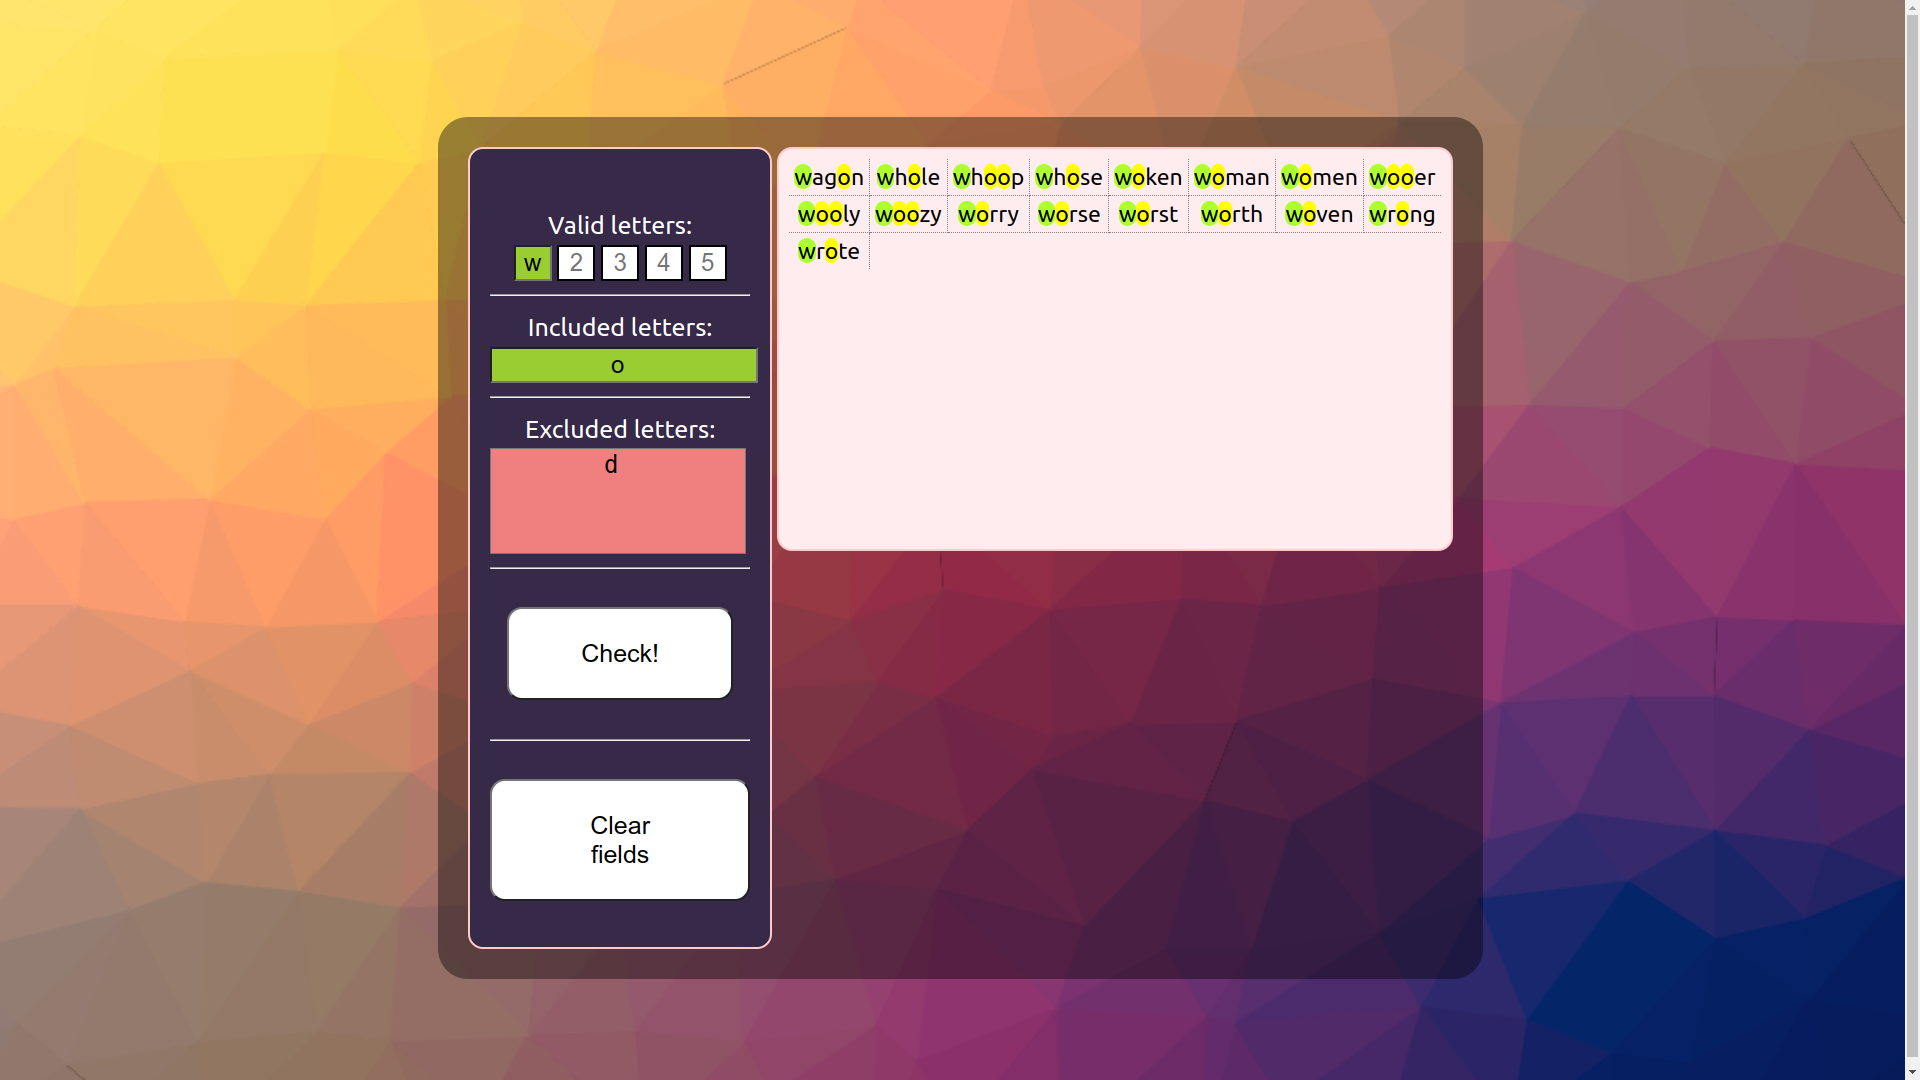
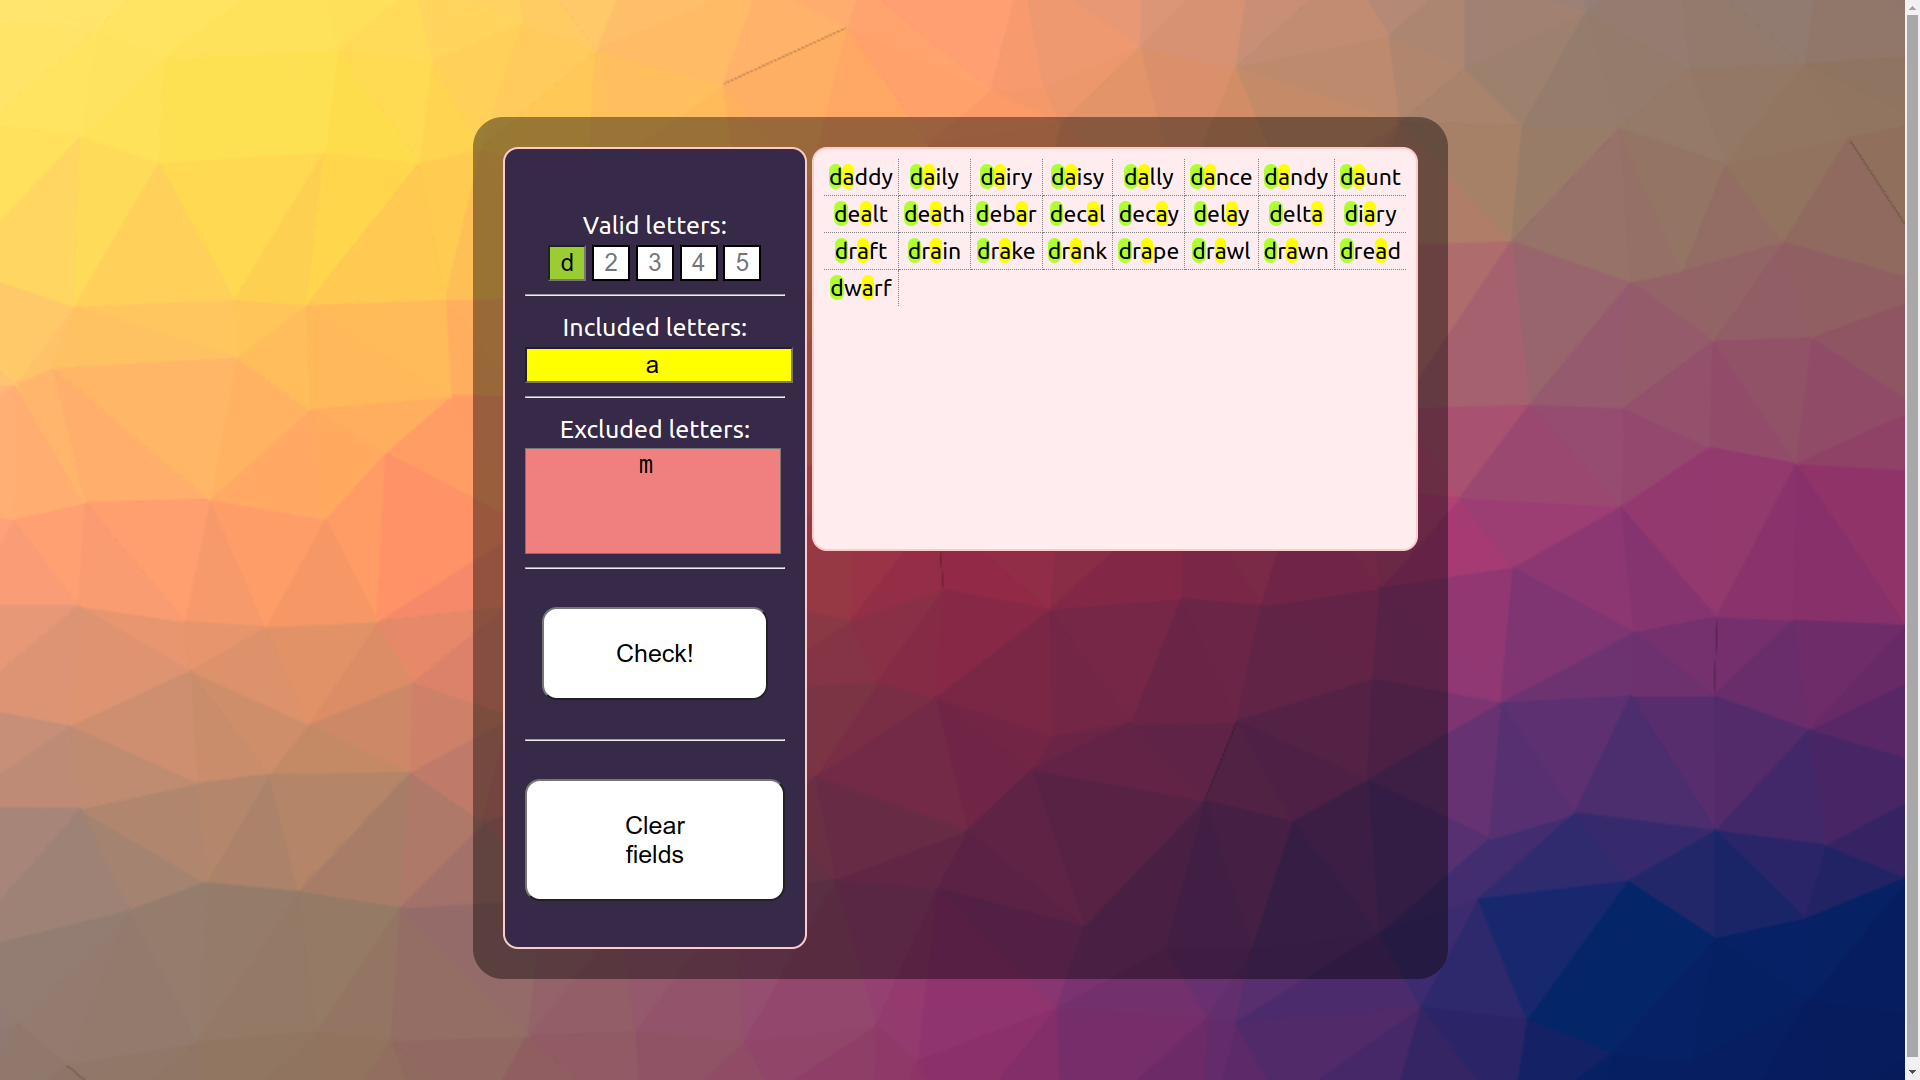
Change color of included letters field

Changed region(s): [[0.2188, 0.0917, 0.7812, 0.9167], [0.9688, 0.0306, 1.0, 0.9778]]

diff --git a/src/main/resources/static/css/main.css b/src/main/resources/static/css/main.css
@@ -159,7 +159,7 @@ table td, table tr{
 }
 
 input[name="includedLetters"] {
-    background-color: yellowgreen !important;
+    background-color: yellow !important;
 }
 
 textarea[name="excludedLetters"] {
